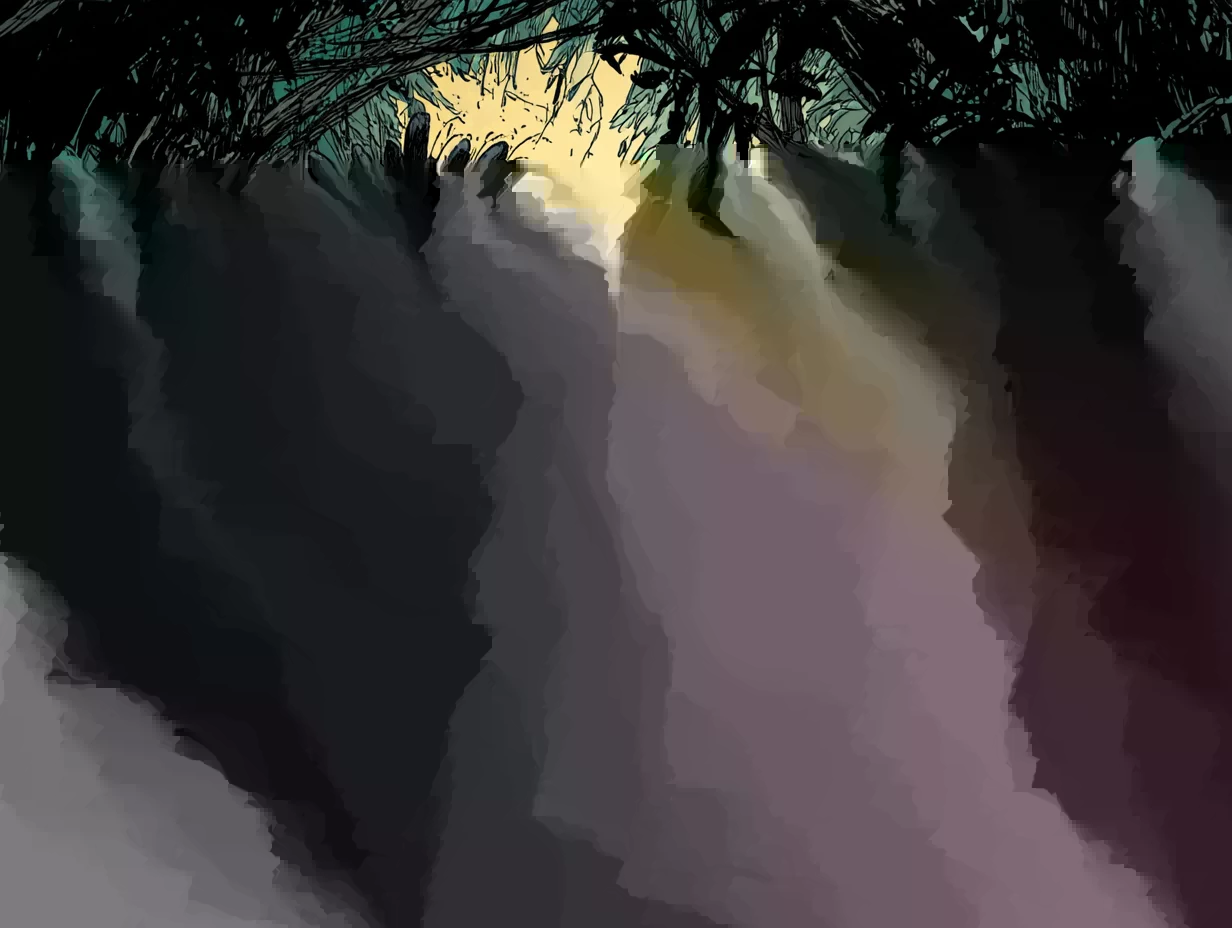
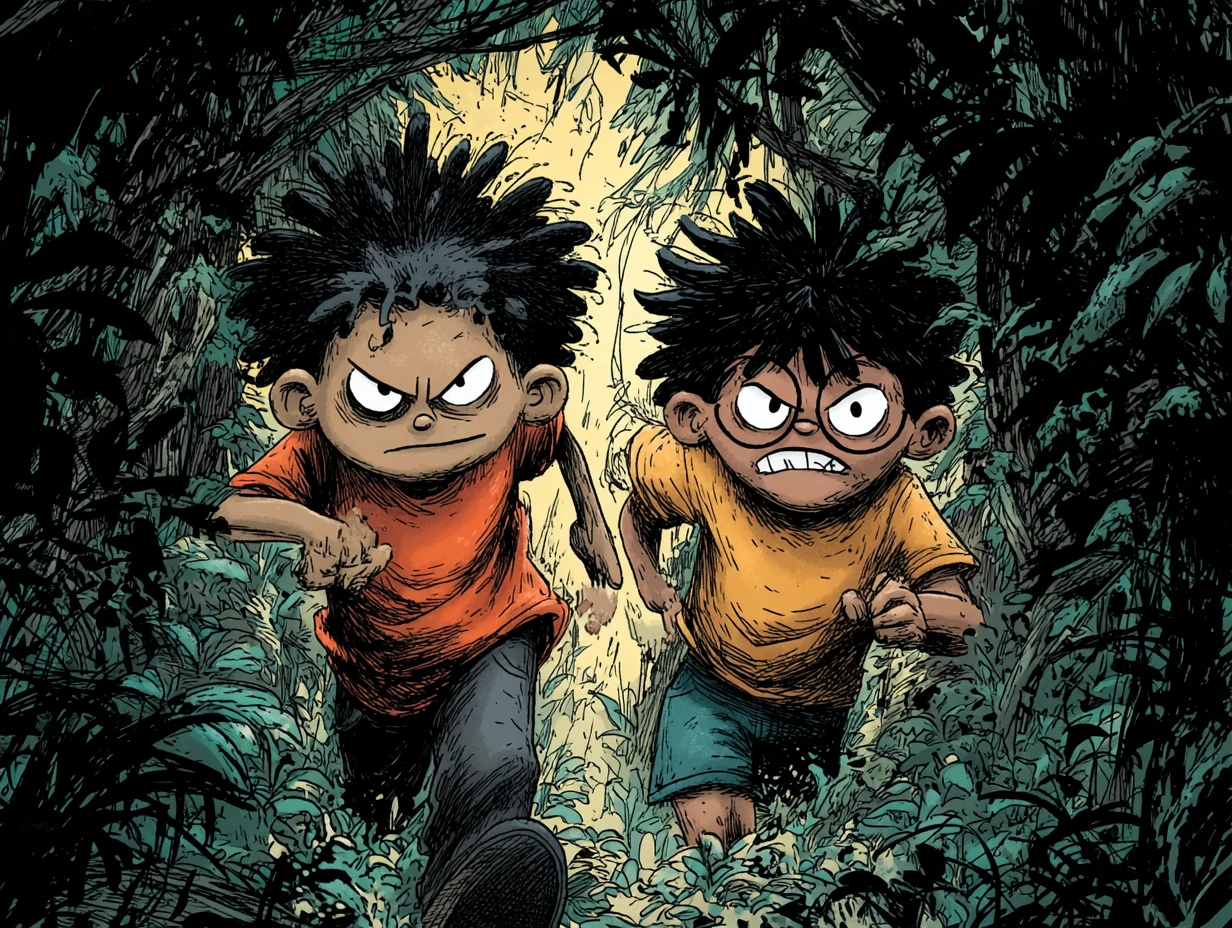
Fix Story 5 distorted panels (#4)

diff --git a/index.html b/index.html
@@ -928,7 +928,7 @@
         <div class="comic-panel"><img src="story5/panels/panel_01.webp?v=1" alt="Story 5 panel 1" loading="lazy" decoding="async"></div>
         <div class="comic-panel"><img src="story5/panels/panel_02.webp?v=1" alt="Story 5 panel 2" loading="lazy" decoding="async"></div>
         <div class="comic-panel"><img src="story5/panels/panel_03.webp?v=1" alt="Story 5 panel 3" loading="lazy" decoding="async"></div>
-        <div class="comic-panel"><img src="story5/panels/panel_04.webp?v=1" alt="Story 5 panel 4" loading="lazy" decoding="async"></div>
+        <div class="comic-panel"><img src="story5/panels/panel_04.webp?v=2" alt="Story 5 panel 4" loading="lazy" decoding="async"></div>
       </div>
       <div class="comic-page-label" data-en="Page 1 of 6" data-gr="Σελίδα 1 από 6">Page 1 of 6</div>
     </div>
@@ -947,7 +947,7 @@
       <div class="comic-grid story5-comic-grid">
         <div class="comic-panel"><img src="story5/panels/panel_09.webp?v=1" alt="Story 5 panel 9" loading="lazy" decoding="async"></div>
         <div class="comic-panel"><img src="story5/panels/panel_10.webp?v=1" alt="Story 5 panel 10" loading="lazy" decoding="async"></div>
-        <div class="comic-panel"><img src="story5/panels/panel_11.webp?v=1" alt="Story 5 panel 11" loading="lazy" decoding="async"></div>
+        <div class="comic-panel"><img src="story5/panels/panel_11.webp?v=2" alt="Story 5 panel 11" loading="lazy" decoding="async"></div>
         <div class="comic-panel"><img src="story5/panels/panel_12.webp?v=1" alt="Story 5 panel 12" loading="lazy" decoding="async"></div>
       </div>
       <div class="comic-page-label" data-en="Page 3 of 6" data-gr="Σελίδα 3 από 6">Page 3 of 6</div>
@@ -956,7 +956,7 @@
     <div class="comic-page" id="s5p-4">
       <div class="comic-grid story5-comic-grid">
         <div class="comic-panel"><img src="story5/panels/panel_13.webp?v=1" alt="Story 5 panel 13" loading="lazy" decoding="async"></div>
-        <div class="comic-panel"><img src="story5/panels/panel_14.webp?v=1" alt="Story 5 panel 14" loading="lazy" decoding="async"></div>
+        <div class="comic-panel"><img src="story5/panels/panel_14.webp?v=2" alt="Story 5 panel 14" loading="lazy" decoding="async"></div>
         <div class="comic-panel"><img src="story5/panels/panel_15.webp?v=1" alt="Story 5 panel 15" loading="lazy" decoding="async"></div>
         <div class="comic-panel"><img src="story5/panels/panel_16.webp?v=1" alt="Story 5 panel 16" loading="lazy" decoding="async"></div>
       </div>
@@ -967,7 +967,7 @@
       <div class="comic-grid story5-comic-grid">
         <div class="comic-panel"><img src="story5/panels/panel_17.webp?v=1" alt="Story 5 panel 17" loading="lazy" decoding="async"></div>
         <div class="comic-panel"><img src="story5/panels/panel_18.webp?v=1" alt="Story 5 panel 18" loading="lazy" decoding="async"></div>
-        <div class="comic-panel"><img src="story5/panels/panel_19.webp?v=1" alt="Story 5 panel 19" loading="lazy" decoding="async"></div>
+        <div class="comic-panel"><img src="story5/panels/panel_19.webp?v=2" alt="Story 5 panel 19" loading="lazy" decoding="async"></div>
         <div class="comic-panel"><img src="story5/panels/panel_20.webp?v=1" alt="Story 5 panel 20" loading="lazy" decoding="async"></div>
       </div>
       <div class="comic-page-label" data-en="Page 5 of 6" data-gr="Σελίδα 5 από 6">Page 5 of 6</div>
@@ -1001,7 +1001,7 @@
 <audio id="audio-el" preload="none"></audio>
 
 <script src="https://code.responsivevoice.org/responsivevoice.js?key=FREE"></script>
-<script src="stories-data.js?v=5"></script>
+<script src="stories-data.js?v=6"></script>
 <script src="app.js?v=4"></script>
 </body>
 </html>

diff --git a/stories-data.js b/stories-data.js
@@ -136,23 +136,23 @@ const storyImages = {
     { after: 0,  src: 'story5/panels/panel_01.webp?v=1' }, // boys on quad bikes arriving
     { after: 1,  src: 'story5/panels/panel_02.webp?v=1' }, // Rillas sitting sad outside
     { after: 3,  src: 'story5/panels/panel_03.webp?v=1' }, // boys with Rillas learning about Gorillatsos
-    { after: 6,  src: 'story5/panels/panel_04.webp?v=1' }, // wrecked house
+    { after: 6,  src: 'story5/panels/panel_04.webp?v=2' }, // wrecked house
     { after: 10, src: 'story5/panels/panel_05.webp?v=1' }, // boys find tyre tracks
     { after: 12, src: 'story5/panels/panel_06.webp?v=1' }, // boys trudging exhausted through jungle
     { after: 14, src: 'story5/panels/panel_07.webp?v=1' }, // boys spot the fortress
-    { after: 15, src: 'story5/panels/panel_11.webp?v=1' }, // boys sneaking through jungle toward fortress
+    { after: 15, src: 'story5/panels/panel_11.webp?v=2' }, // boys sneaking through jungle toward fortress
     { after: 21, src: 'story5/panels/panel_08.webp?v=1' }, // Rillas in shining knight armour
     { after: 22, src: 'story5/panels/panel_09.webp?v=1' }, // Rillas deflects arrows, boys sneak in
     { after: 24, src: 'story5/panels/panel_10.webp?v=1' }, // boys sneaking through stone fortress
     { after: 25, src: 'story5/panels/panel_12.webp?v=1' }, // Gorillatsos in cage
     { after: 28, src: 'story5/panels/panel_13.webp?v=1' }, // Rilena in cage
-    { after: 29, src: 'story5/panels/panel_14.webp?v=1' }, // Maimudakis in cage
+    { after: 29, src: 'story5/panels/panel_14.webp?v=2' }, // Maimudakis in cage
     { after: 31, src: 'story5/panels/panel_17.webp?v=1' }, // Gorillatsos "Freedom!"
     { after: 33, src: 'story5/panels/panel_15.webp?v=1' }, // Rillas smashes through the wall
     { after: 34, src: 'story5/panels/panel_16.webp?v=1' }, // escape on quad bikes
     { after: 40, src: 'story5/panels/panel_20.webp?v=1' }, // Maimudakis "Yes yes yes!"
     { after: 41, src: 'story5/panels/panel_18.webp?v=1' }, // Rillas blushing
-    { after: 42, src: 'story5/panels/panel_19.webp?v=1' }, // Rilena smiling
+    { after: 42, src: 'story5/panels/panel_19.webp?v=2' }, // Rilena smiling
     { after: 44, src: 'story5/panels/panel_21.webp?v=1' }, // boys handshake — we did it again
   ]
 };
